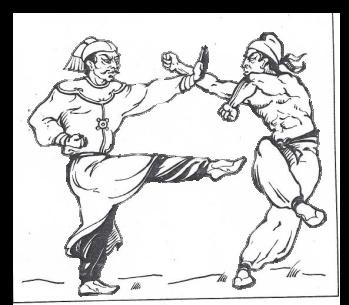
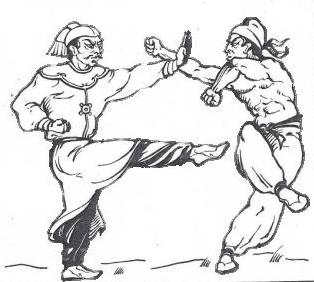
longfist bilder

diff --git a/Long-fist/index.md b/Long-fist/index.md
@@ -17,7 +17,7 @@ Frühzeitig, aggressiver Angriff mit starken Schlag- und Faustkombinationen, wie
 
 Mit den 13 kinetischen Bewegungen, welche Qinna und Shuaj jiao (Greif-, Wrestling und Bodenkampf) enthalten, entwickelte sich die lange Faust zu einem kompletten, klassischen Kampf- (Combat-)Stil, der alle vier Kategorien der Kampfkünste beinhaltet:
 
-<img class="ifloat-right" src="/images/longfist_2.jpg" alt="Longfist">
+<img class="ifloat-right" src="/images/longfist_2.png" alt="Longfist">
 Kicks 				(Ti)
 
 Schläge mit der Hand 	(Da)
